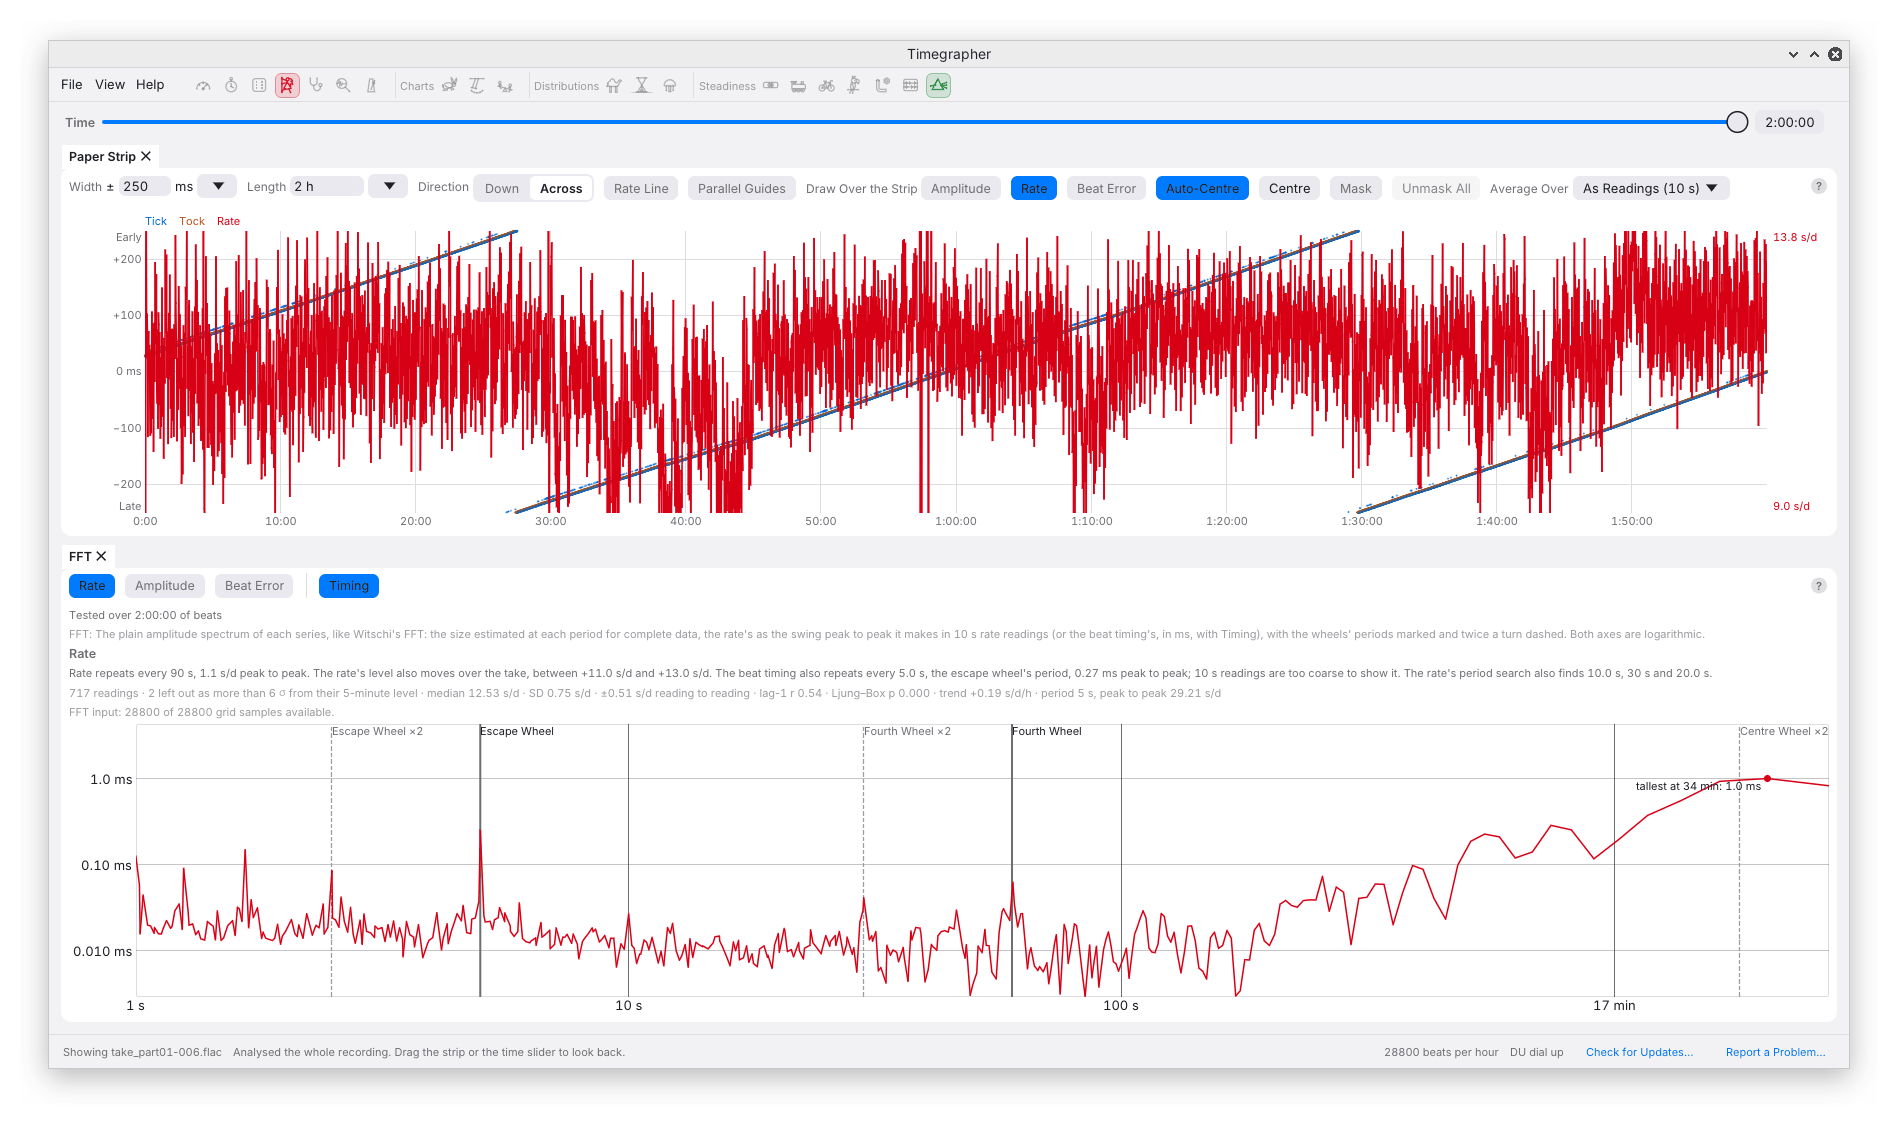
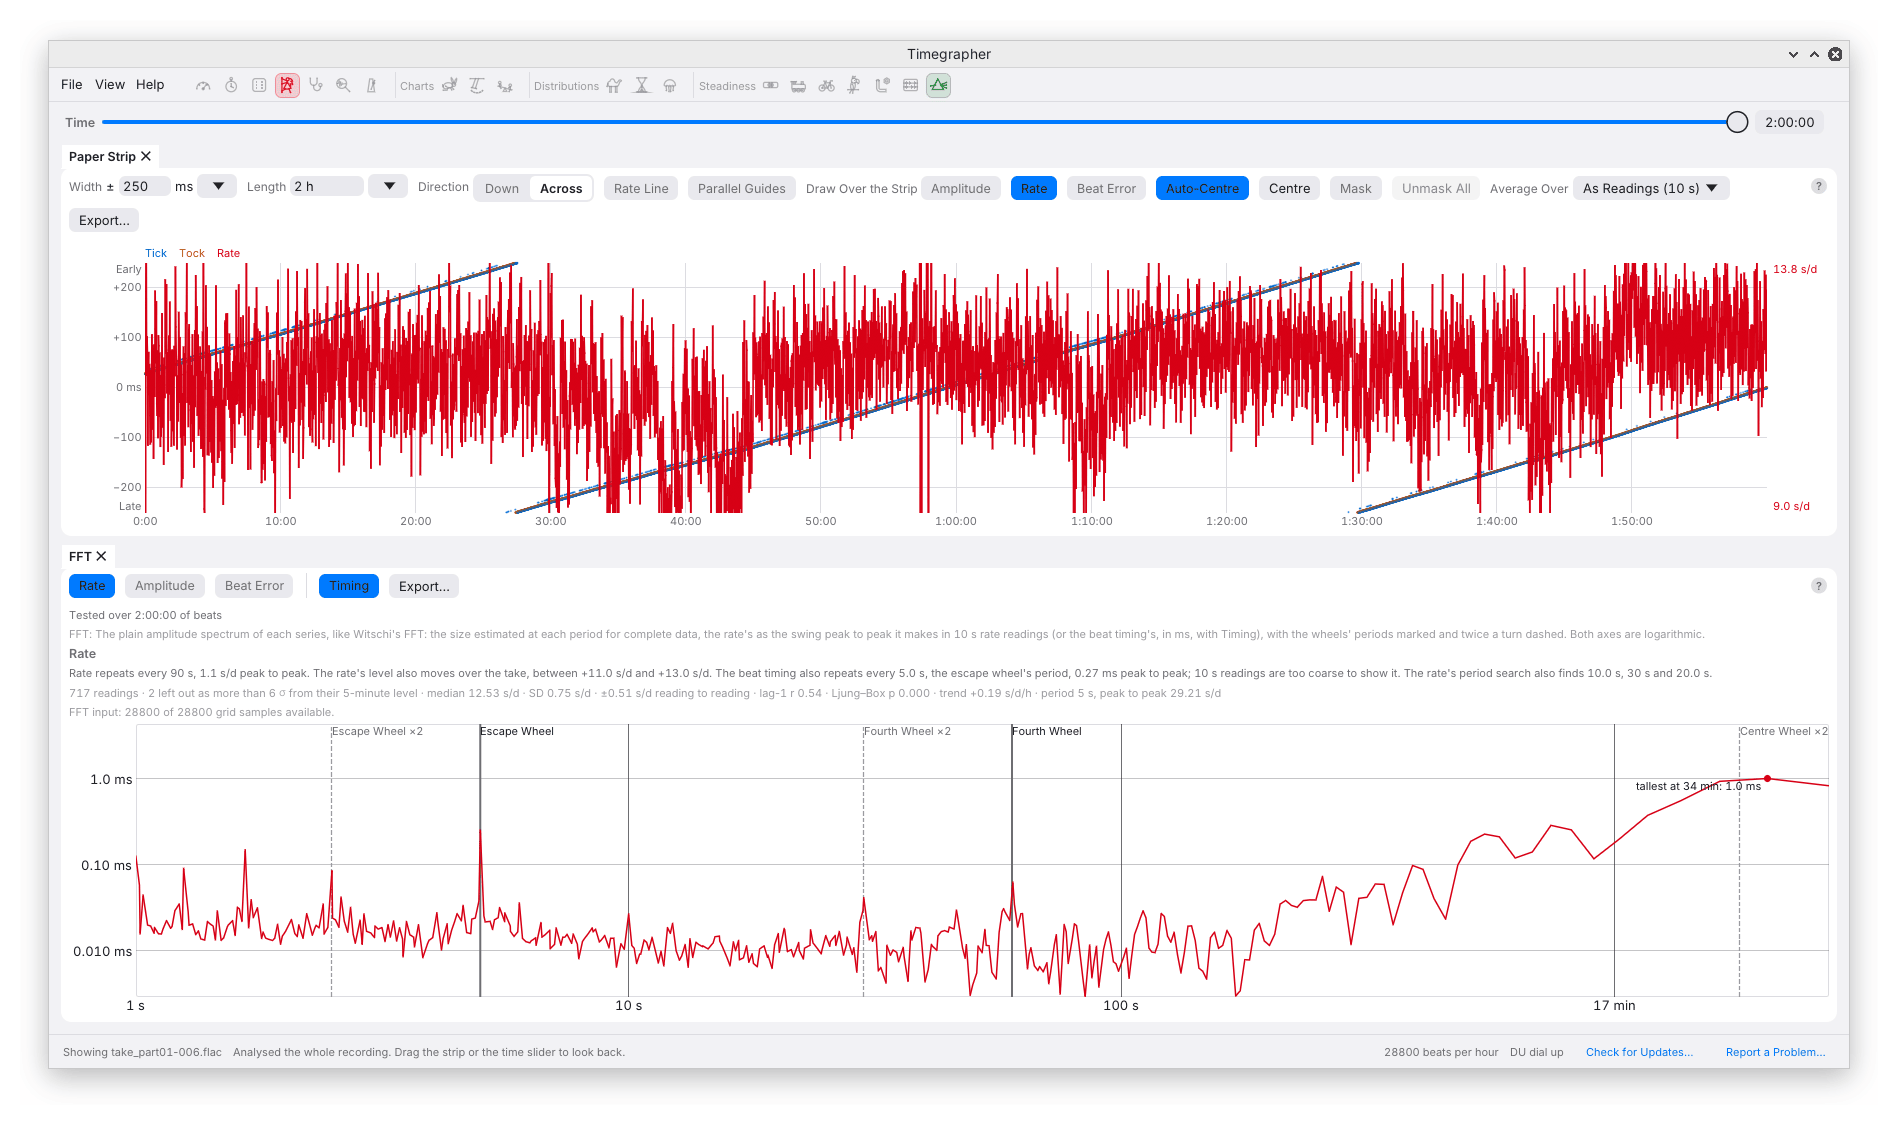
Guide: Export… in chapter 4, and the screenshots remade with it
Claude-Session: https://claude.ai/code/session_01QSxqxVf77FmFmJZGMCy8kd

Changed region(s): [[0.0311, 0.1867, 0.9326, 0.4356], [0.715, 0.4356, 0.746, 0.4667], [0.2798, 0.4356, 0.3109, 0.4667]]

diff --git a/docs/user-guide/04-the-window.md b/docs/user-guide/04-the-window.md
@@ -74,6 +74,19 @@ Pane settings sit in their toolbars or tab bars. Two-way controls such
 as **Stacked / Beside** switch between their alternatives. A narrow pane
 may truncate text; hover over a summary to read the full version.
 
+## Exporting a Pane
+
+Every pane except Watch has **Export…** in its toolbar; a chart has it in
+its tab bar. It saves the pane as a picture, as it is on the screen: a
+PNG file. A name with no ending is saved as a PNG. In the picture, the
+pane's name (with its own averaging time, if it has one) and a chart's
+key take the place of its controls, so the picture says what it shows
+without the buttons around it.
+
+The save starts in the folder you last chose for a picture, or else in
+the folder of the recording you last opened. The app forgets both when
+it closes.
+
 ## Help at the Point of Use
 
 Hover over **?** beside a card or pane name for a short explanation.
